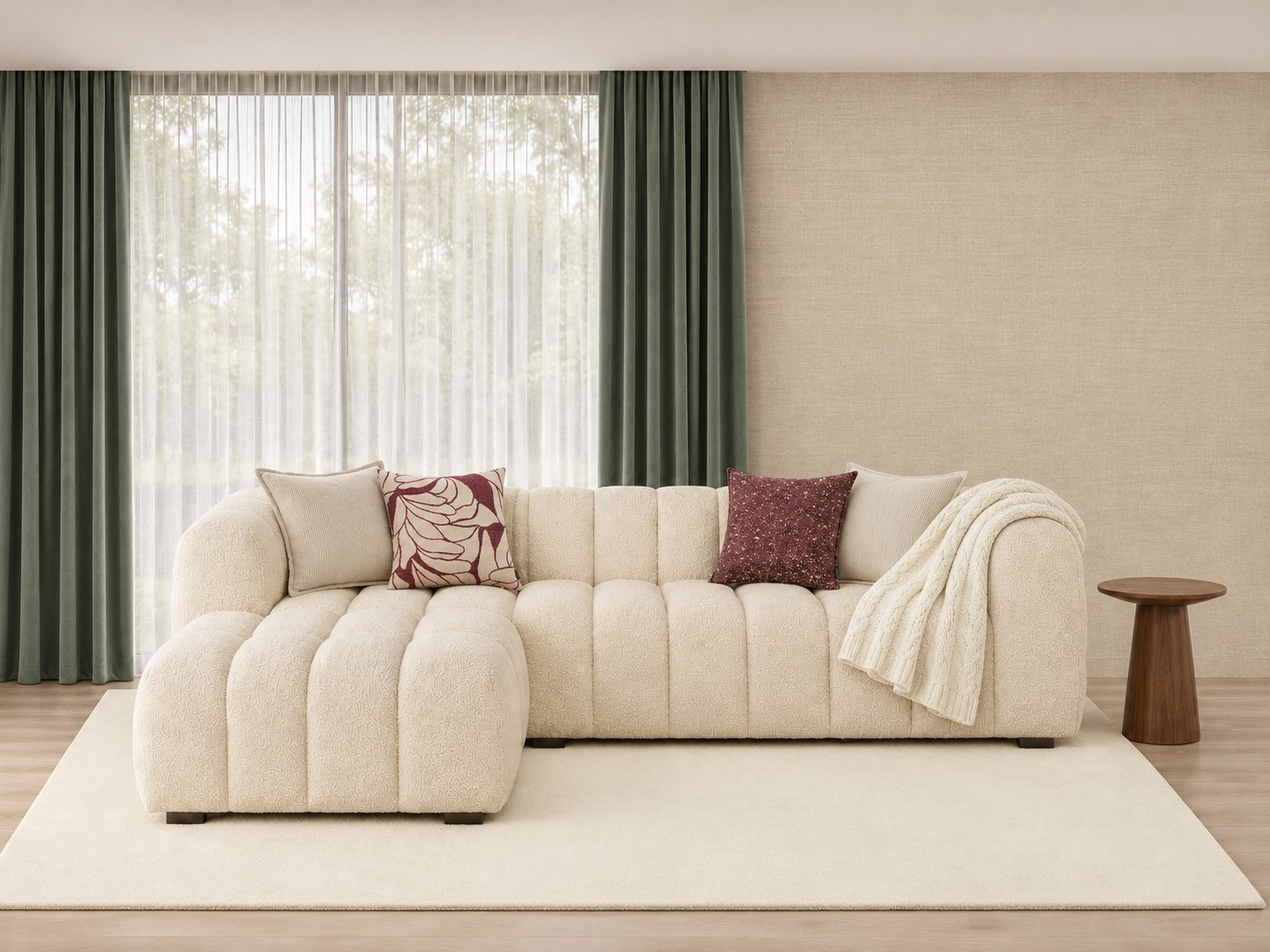
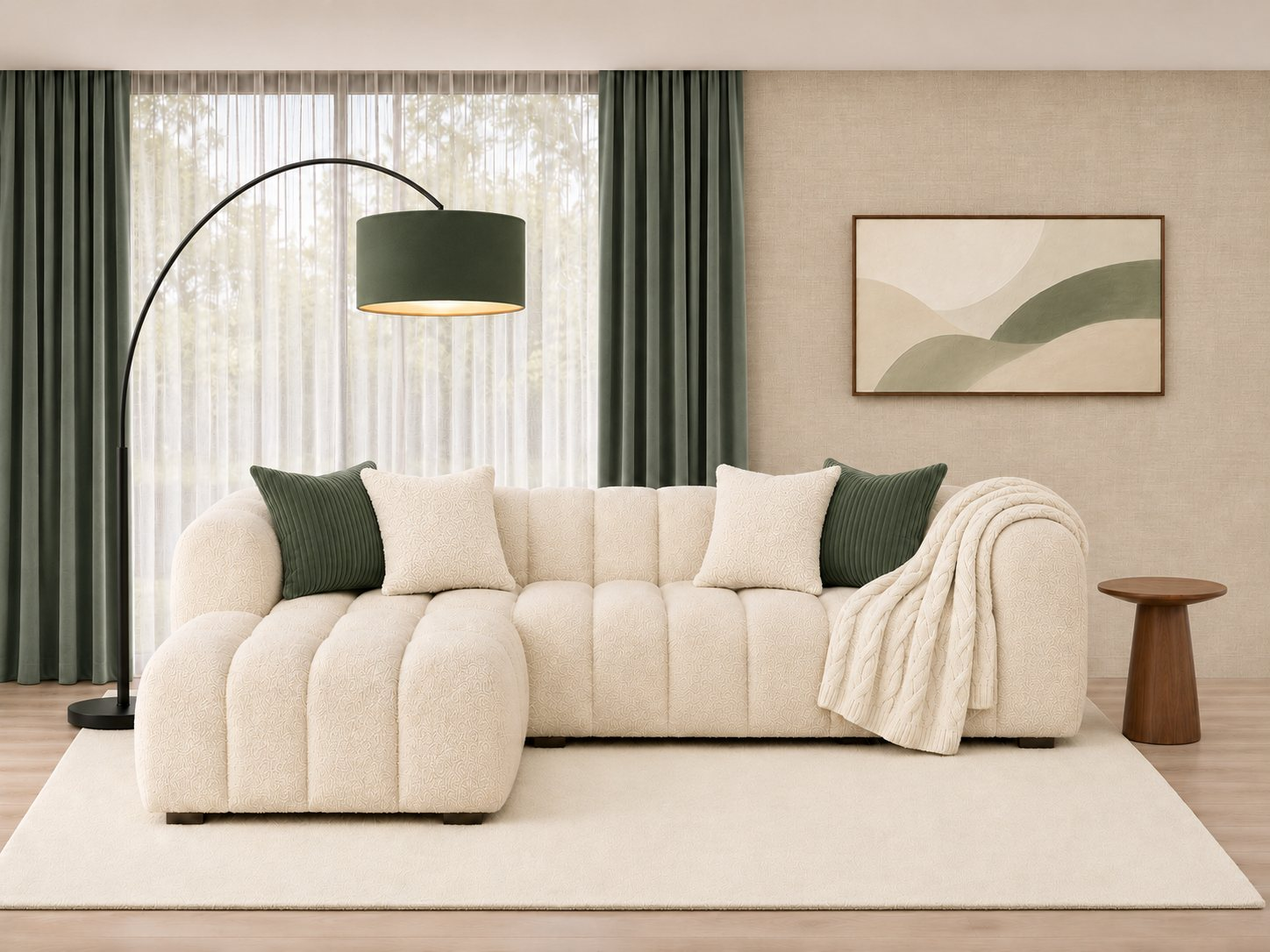
Гостиная: рендеры g03, без подушек и пледа в списке товаров
Claude-Session: https://claude.ai/code/session_01Jo9fSBbrUT3RnC7EnQNqqM

diff --git a/index.html b/index.html
@@ -256,7 +256,7 @@ function cbParse(id){var m=/^combo:(w\d)(c\d)(t\d)$/.exec(id||"");return m?{w:cb
 function comboName(id){var p=cbParse(id);return p&&p.w&&p.c&&p.t?p.w.full+" · "+p.c.full+" · "+p.t.full:id}
 window.comboName=null;
 /* Гостиная: 8 подобранных сочетаний. photo — рендер (пока нет: pending → показываем базовый кадр). */
-var LIVING=[{"id": "combo:V1", "maker": "Гостиная · V1", "name": "Осенний бархат", "photo": "img/liv/V1.jpg", "pending": false, "parts": [{"cat": "Диван", "name": "Maisons du Monde Lilo, угловой, экрю", "url": "https://www.maisonsdumonde.com/FR/fr/p/canape-nuage-d-angle-gauche-4-5-places-ecru-lilo-249793.htm", "img": "img/liv/t_sofa.jpg"}, {"cat": "Обои", "name": "Arte Textura Ignis — Lana, Macadamia 63505A", "url": "https://www.arte-international.com/es/colecciones/textura-ignis/lana-1/63505A", "img": "img/liv/w_LM.jpg"}, {"cat": "Шторы", "name": "Froca Cotonetto, Crème 08 (ткань)", "url": "https://artapisserie.fr/velours-grande-laize-cotonetto/28169-tissu-velours-cotonetto-creme-08-froca-grande-largeur.html", "img": "img/liv/c_08.jpg"}, {"cat": "Подушки", "name": "Maisons du Monde Frisa — буклé, экрю, 45×45", "url": "https://www.maisonsdumonde.com/FR/fr/p/coussin-a-bouclettes-ecrues-45x45-frisa-231611.htm", "img": "img/liv/p_CB.jpg", "qty": 2}, {"cat": "Подушки", "name": "Maisons du Monde (Magma) Shara — вельвет, олива, 45×45, 2 шт.", "url": "https://www.maisonsdumonde.com/FR/fr/p/lot-de-2-housses-de-coussin-velours-cotele-vert-olive-45x45-shara-M25198306.htm", "img": "img/liv/p_OL.jpg", "qty": 1}, {"cat": "Подушки", "name": "H&M — чехол, бархат из хлопка, бордо, прямоугольный, плиссированный кант", "url": "https://www2.hm.com/es_es/productpage.1361696003.html", "img": "img/liv/p_BV.jpg", "qty": 1}, {"cat": "Плед", "name": "Maisons du Monde Verbier — плед хлопок, бордо, «ёлочка», кисти, 130×170", "url": "https://www.maisonsdumonde.com/FR/fr/p/plaid-coton-bordeaux-130x170-verbier-M26071386.htm", "img": "img/liv/t_PB.jpg"}, {"cat": "Ковёр", "name": "Rols Zenit NX, Cream — шерсть, ворс 14 мм, по размеру ~3,5×4,5 м", "url": "https://www.rolscarpets.com/producto/zenit-nx-alfombra-cream/", "img": "img/liv/r_ZC.jpg"}]}, {"id": "combo:V2", "maker": "Гостиная · V2", "name": "Шалфейные шторы", "photo": "img/liv/V2.jpg", "pending": false, "parts": [{"cat": "Диван", "name": "Maisons du Monde Lilo, угловой, экрю", "url": "https://www.maisonsdumonde.com/FR/fr/p/canape-nuage-d-angle-gauche-4-5-places-ecru-lilo-249793.htm", "img": "img/liv/t_sofa.jpg"}, {"cat": "Обои", "name": "Arte Indienne — Bundi, Nutmeg 18371", "url": "https://www.arte-international.com/es/colecciones/indienne/bundi/18369", "img": "img/liv/w_BN.jpg"}, {"cat": "Шторы", "name": "Froca Cotonetto, Vert d'eau 28 (ткань)", "url": "https://artapisserie.fr/velours-grande-laize-cotonetto/28192-tissu-velours-cotonetto-vert-d-eau-28-froca-grande-largeur.html", "img": "img/liv/c_28.jpg"}, {"cat": "Подушки", "name": "Maisons du Monde Chenille — бархат, экрю, 45×45", "url": "https://www.maisonsdumonde.com/FR/fr/p/coussin-en-velours-ecru-45x45-chenille-235174.htm", "img": "img/liv/p_CV.jpg", "qty": 2}, {"cat": "Подушки", "name": "Maisons du Monde Nerina — чехол лён/хлопок, вышивка бордо, 40×40", "url": "https://www.maisonsdumonde.com/FR/fr/p/housse-de-coussin-en-coton-et-lin-beige-brode-motif-floral-bordeaux-40x40-nerina-252042.htm", "img": "img/liv/p_NE.jpg", "qty": 1}, {"cat": "Подушки", "name": "Maisons du Monde (Magma) Amara — жаккард, бордо, 45×45", "url": "https://www.maisonsdumonde.com/FR/fr/p/housse-de-coussin-jacquard-bordeaux-45x45-cm-amara-M26160224.htm", "img": "img/liv/p_AM.jpg", "qty": 1}, {"cat": "Плед", "name": "Maisons du Monde Ginette — вязаный плед, экрю, 210×160", "url": "https://www.maisonsdumonde.com/FR/fr/p/plaid-en-maille-ecru-210x160-ginette-231149.htm", "img": "img/liv/t_PC.jpg"}, {"cat": "Ковёр", "name": "Rols Zenit NX, Ivory — шерсть, ворс 14 мм, по размеру ~3,5×4,5 м", "url": "https://www.rolscarpets.com/producto/zenit-nx-alfombra-ivory/", "img": "img/liv/r_ZI.jpg"}]}, {"id": "combo:V3", "maker": "Гостиная · V3", "name": "Тёплый камень", "photo": "img/liv/V3.jpg", "pending": false, "parts": [{"cat": "Диван", "name": "Maisons du Monde Lilo, угловой, экрю", "url": "https://www.maisonsdumonde.com/FR/fr/p/canape-nuage-d-angle-gauche-4-5-places-ecru-lilo-249793.htm", "img": "img/liv/t_sofa.jpg"}, {"cat": "Обои", "name": "Arte Textura Ignis — Montagna, Beige 63522A", "url": "https://www.arte-international.com/es/colecciones/textura-ignis/montagna-1/63522A", "img": "img/liv/w_MB.jpg"}, {"cat": "Шторы", "name": "Froca Cotonetto, Tourterelle 13 (ткань)", "url": "https://artapisserie.fr/velours-grande-laize-cotonetto/28176-tissu-velours-cotonetto-tourterelle-13-froca-grande-largeur.html", "img": "img/liv/c_13.jpg"}, {"cat": "Подушки", "name": "Maisons du Monde (Magma) Shara — вельвет, олива, 45×45, 2 шт.", "url": "https://www.maisonsdumonde.com/FR/fr/p/lot-de-2-housses-de-coussin-velours-cotele-vert-olive-45x45-shara-M25198306.htm", "img": "img/liv/p_OL.jpg", "qty": 2}, {"cat": "Подушки", "name": "Maisons du Monde Frisa — буклé, экрю, 45×45", "url": "https://www.maisonsdumonde.com/FR/fr/p/coussin-a-bouclettes-ecrues-45x45-frisa-231611.htm", "img": "img/liv/p_CB.jpg", "qty": 2}, {"cat": "Плед", "name": "Maisons du Monde Verbier — плед хлопок, бордо, «ёлочка», кисти, 130×170", "url": "https://www.maisonsdumonde.com/FR/fr/p/plaid-coton-bordeaux-130x170-verbier-M26071386.htm", "img": "img/liv/t_PB.jpg"}, {"cat": "Ковёр", "name": "Rols Zenit NX, Ivory — шерсть, ворс 14 мм, по размеру ~3,5×4,5 м", "url": "https://www.rolscarpets.com/producto/zenit-nx-alfombra-ivory/", "img": "img/liv/r_ZI.jpg"}]}, {"id": "combo:V4", "maker": "Гостиная · V4", "name": "Глубокий зелёный", "photo": "img/liv/V4.jpg", "pending": false, "parts": [{"cat": "Диван", "name": "Maisons du Monde Lilo, угловой, экрю", "url": "https://www.maisonsdumonde.com/FR/fr/p/canape-nuage-d-angle-gauche-4-5-places-ecru-lilo-249793.htm", "img": "img/liv/t_sofa.jpg"}, {"cat": "Обои", "name": "Arte Textura Ignis — Lana, Tan 63502A", "url": "https://www.arte-international.com/es/colecciones/textura-ignis/lana-1/63502A", "img": "img/liv/w_LT.jpg"}, {"cat": "Шторы", "name": "Froca Cotonetto, Amande 30 (ткань)", "url": "https://artapisserie.fr/velours-grande-laize-cotonetto/28194-tissu-velours-cotonetto-amande-30-froca-grande-largeur.html", "img": "img/liv/c_30.jpg"}, {"cat": "Подушки", "name": "Maisons du Monde Gillian — шенилл фактурный, тёмно-зелёный, 40×40", "url": "https://www.maisonsdumonde.com/FR/fr/p/housse-de-coussin-chenille-texturee-vert-fonce-40x40-gillian-244027.htm", "img": "img/liv/p_GR.jpg", "qty": 1}, {"cat": "Подушки", "name": "Maisons du Monde Chenille — бархат, экрю, 45×45", "url": "https://www.maisonsdumonde.com/FR/fr/p/coussin-en-velours-ecru-45x45-chenille-235174.htm", "img": "img/liv/p_CV.jpg", "qty": 2}, {"cat": "Подушки", "name": "Maisons du Monde (Magma) Shara — вельвет, олива, 45×45, 2 шт.", "url": "https://www.maisonsdumonde.com/FR/fr/p/lot-de-2-housses-de-coussin-velours-cotele-vert-olive-45x45-shara-M25198306.htm", "img": "img/liv/p_OL.jpg", "qty": 1}, {"cat": "Плед", "name": "Maisons du Monde Verbier — плед хлопок, бордо, «ёлочка», кисти, 130×170", "url": "https://www.maisonsdumonde.com/FR/fr/p/plaid-coton-bordeaux-130x170-verbier-M26071386.htm", "img": "img/liv/t_PB.jpg"}, {"cat": "Ковёр", "name": "Rols Zenit NX, Cream — шерсть, ворс 14 мм, по размеру ~3,5×4,5 м", "url": "https://www.rolscarpets.com/producto/zenit-nx-alfombra-cream/", "img": "img/liv/r_ZC.jpg"}]}, {"id": "combo:V5", "maker": "Гостиная · V5", "name": "Карамель", "photo": "img/liv/V5.jpg", "pending": false, "parts": [{"cat": "Диван", "name": "Maisons du Monde Lilo, угловой, экрю", "url": "https://www.maisonsdumonde.com/FR/fr/p/canape-nuage-d-angle-gauche-4-5-places-ecru-lilo-249793.htm", "img": "img/liv/t_sofa.jpg"}, {"cat": "Обои", "name": "Arte Indienne — Bundi, Walnut 18366", "url": "https://www.arte-international.com/es/colecciones/indienne/bundi/18369", "img": "img/liv/w_BW.jpg"}, {"cat": "Шторы", "name": "Froca Cotonetto, Crème 08 (ткань)", "url": "https://artapisserie.fr/velours-grande-laize-cotonetto/28169-tissu-velours-cotonetto-creme-08-froca-grande-largeur.html", "img": "img/liv/c_08.jpg"}, {"cat": "Подушки", "name": "Maisons du Monde Nerina — чехол лён/хлопок, вышивка бордо, 40×40", "url": "https://www.maisonsdumonde.com/FR/fr/p/housse-de-coussin-en-coton-et-lin-beige-brode-motif-floral-bordeaux-40x40-nerina-252042.htm", "img": "img/liv/p_NE.jpg", "qty": 1}, {"cat": "Подушки", "name": "Maisons du Monde Frisa — буклé, экрю, 45×45", "url": "https://www.maisonsdumonde.com/FR/fr/p/coussin-a-bouclettes-ecrues-45x45-frisa-231611.htm", "img": "img/liv/p_CB.jpg", "qty": 2}, {"cat": "Подушки", "name": "H&M — чехол, мягкий бархат, тёмно-красный (вишня), плиссированный кант", "url": "https://www2.hm.com/es_es/productpage.1361695003.html", "img": "img/liv/p_BR.jpg", "qty": 1}, {"cat": "Плед", "name": "Maisons du Monde Megève — плед хлопок, олива/шалфей, кисти, 160×250", "url": "https://www.maisonsdumonde.com/FR/fr/p/plaid-coton-vert-olive-160x250-megeve-M24153349.htm", "img": "img/liv/t_PO.jpg"}, {"cat": "Ковёр", "name": "Rols Zenit NX, Ivory — шерсть, ворс 14 мм, по размеру ~3,5×4,5 м", "url": "https://www.rolscarpets.com/producto/zenit-nx-alfombra-ivory/", "img": "img/liv/r_ZI.jpg"}]}, {"id": "combo:V6", "maker": "Гостиная · V6", "name": "Светлый и свежий", "photo": "img/liv/V6.jpg", "pending": false, "parts": [{"cat": "Диван", "name": "Maisons du Monde Lilo, угловой, экрю", "url": "https://www.maisonsdumonde.com/FR/fr/p/canape-nuage-d-angle-gauche-4-5-places-ecru-lilo-249793.htm", "img": "img/liv/t_sofa.jpg"}, {"cat": "Обои", "name": "Arte Textura Ignis — Lana, Macadamia 63505A", "url": "https://www.arte-international.com/es/colecciones/textura-ignis/lana-1/63505A", "img": "img/liv/w_LM.jpg"}, {"cat": "Шторы", "name": "Froca Cotonetto, Mastic 09 (ткань)", "url": "https://artapisserie.fr/velours-grande-laize-cotonetto/28172-tissu-velours-cotonetto-mastic-09-froca-grande-largeur.html", "img": "img/liv/c_09.jpg"}, {"cat": "Подушки", "name": "Maisons du Monde Gillian — шенилл фактурный, тёмно-зелёный, 40×40", "url": "https://www.maisonsdumonde.com/FR/fr/p/housse-de-coussin-chenille-texturee-vert-fonce-40x40-gillian-244027.htm", "img": "img/liv/p_GR.jpg", "qty": 2}, {"cat": "Подушки", "name": "Maisons du Monde Chenille — бархат, экрю, 45×45", "url": "https://www.maisonsdumonde.com/FR/fr/p/coussin-en-velours-ecru-45x45-chenille-235174.htm", "img": "img/liv/p_CV.jpg", "qty": 2}, {"cat": "Плед", "name": "Maisons du Monde Megève — плед хлопок, олива/шалфей, кисти, 160×250", "url": "https://www.maisonsdumonde.com/FR/fr/p/plaid-coton-vert-olive-160x250-megeve-M24153349.htm", "img": "img/liv/t_PO.jpg"}, {"cat": "Ковёр", "name": "Rols Zenit NX, Desert — шерсть, ворс 14 мм, по размеру ~3,5×4,5 м", "url": "https://www.rolscarpets.com/producto/zenit-nx-alfombra-desert/", "img": "img/liv/r_ZD.jpg"}]}, {"id": "combo:V7", "maker": "Гостиная · V7", "name": "Без бордо", "photo": "img/liv/V7.jpg", "pending": false, "parts": [{"cat": "Диван", "name": "Maisons du Monde Lilo, угловой, экрю", "url": "https://www.maisonsdumonde.com/FR/fr/p/canape-nuage-d-angle-gauche-4-5-places-ecru-lilo-249793.htm", "img": "img/liv/t_sofa.jpg"}, {"cat": "Обои", "name": "Arte Textura Ignis — Montagna, Beige 63522A", "url": "https://www.arte-international.com/es/colecciones/textura-ignis/montagna-1/63522A", "img": "img/liv/w_MB.jpg"}, {"cat": "Шторы", "name": "Froca Cotonetto, Amande 30 (ткань)", "url": "https://artapisserie.fr/velours-grande-laize-cotonetto/28194-tissu-velours-cotonetto-amande-30-froca-grande-largeur.html", "img": "img/liv/c_30.jpg"}, {"cat": "Подушки", "name": "Maisons du Monde Gillian — шенилл фактурный, тёмно-зелёный, 40×40", "url": "https://www.maisonsdumonde.com/FR/fr/p/housse-de-coussin-chenille-texturee-vert-fonce-40x40-gillian-244027.htm", "img": "img/liv/p_GR.jpg", "qty": 2}, {"cat": "Подушки", "name": "Maisons du Monde Frisa — буклé, экрю, 45×45", "url": "https://www.maisonsdumonde.com/FR/fr/p/coussin-a-bouclettes-ecrues-45x45-frisa-231611.htm", "img": "img/liv/p_CB.jpg", "qty": 2}, {"cat": "Плед", "name": "Maisons du Monde Solid — вязаный плед, тёмно-зелёный, бахрома, 125×150", "url": "https://www.maisonsdumonde.com/FR/fr/p/plaid-vert-sauge-125x150-solid-M25092445.htm", "img": "img/liv/t_PS.jpg"}, {"cat": "Ковёр", "name": "Rols Zenit NX, Cream — шерсть, ворс 14 мм, по размеру ~3,5×4,5 м", "url": "https://www.rolscarpets.com/producto/zenit-nx-alfombra-cream/", "img": "img/liv/r_ZC.jpg"}]}, {"id": "combo:V8", "maker": "Гостиная · V8", "name": "Кедр", "photo": "img/liv/V8.jpg", "pending": false, "parts": [{"cat": "Диван", "name": "Maisons du Monde Lilo, угловой, экрю", "url": "https://www.maisonsdumonde.com/FR/fr/p/canape-nuage-d-angle-gauche-4-5-places-ecru-lilo-249793.htm", "img": "img/liv/t_sofa.jpg"}, {"cat": "Обои", "name": "Arte Textura Ignis — Lana, Tan 63502A", "url": "https://www.arte-international.com/es/colecciones/textura-ignis/lana-1/63502A", "img": "img/liv/w_LT.jpg"}, {"cat": "Шторы", "name": "Froca Cotonetto, Macadamia 12 (ткань)", "url": "https://artapisserie.fr/velours-grande-laize-cotonetto/28175-tissu-velours-cotonetto-macadamia-12-froca-grande-largeur.html", "img": "img/liv/c_12.jpg"}, {"cat": "Подушки", "name": "Maisons du Monde Chenille — бархат, экрю, 45×45", "url": "https://www.maisonsdumonde.com/FR/fr/p/coussin-en-velours-ecru-45x45-chenille-235174.htm", "img": "img/liv/p_CV.jpg", "qty": 2}, {"cat": "Подушки", "name": "H&M — чехол, бархат из хлопка, бордо, прямоугольный, плиссированный кант", "url": "https://www2.hm.com/es_es/productpage.1361696003.html", "img": "img/liv/p_BV.jpg", "qty": 1}, {"cat": "Подушки", "name": "Zara Home — чехол, бархат, Camel", "url": "https://www.zarahome.com/es/funda-cojin-terciopelo-l45162008?colorId=704", "img": "img/liv/p_CA.jpg", "qty": 1}, {"cat": "Плед", "name": "Maisons du Monde Ginette — вязаный плед, экрю, 210×160", "url": "https://www.maisonsdumonde.com/FR/fr/p/plaid-en-maille-ecru-210x160-ginette-231149.htm", "img": "img/liv/t_PC.jpg"}, {"cat": "Ковёр", "name": "Rols Zenit NX, Greige — шерсть, ворс 14 мм, по размеру ~3,5×4,5 м", "url": "https://www.rolscarpets.com/producto/zenit-nx-alfombra-greige/", "img": "img/liv/r_ZG.jpg"}]}];
+var LIVING=[{"id": "combo:V1", "maker": "Гостиная · V1", "name": "Осенний бархат", "photo": "img/liv/V1.jpg", "pending": false, "parts": [{"cat": "Диван", "name": "Maisons du Monde Lilo, угловой, экрю", "url": "https://www.maisonsdumonde.com/FR/fr/p/canape-nuage-d-angle-gauche-4-5-places-ecru-lilo-249793.htm", "img": "img/liv/t_sofa.jpg"}, {"cat": "Обои", "name": "Arte Textura Ignis — Lana, Macadamia 63505A", "url": "https://www.arte-international.com/es/colecciones/textura-ignis/lana-1/63505A", "img": "img/liv/w_LM.jpg"}, {"cat": "Шторы", "name": "Froca Cotonetto, Crème 08 (ткань)", "url": "https://artapisserie.fr/velours-grande-laize-cotonetto/28169-tissu-velours-cotonetto-creme-08-froca-grande-largeur.html", "img": "img/liv/c_08.jpg"}, {"cat": "Ковёр", "name": "Rols Zenit NX, Cream — шерсть, ворс 14 мм, по размеру ~3,5×4,5 м", "url": "https://www.rolscarpets.com/producto/zenit-nx-alfombra-cream/", "img": "img/liv/r_ZC.jpg"}]}, {"id": "combo:V2", "maker": "Гостиная · V2", "name": "Шалфейные шторы", "photo": "img/liv/V2.jpg", "pending": false, "parts": [{"cat": "Диван", "name": "Maisons du Monde Lilo, угловой, экрю", "url": "https://www.maisonsdumonde.com/FR/fr/p/canape-nuage-d-angle-gauche-4-5-places-ecru-lilo-249793.htm", "img": "img/liv/t_sofa.jpg"}, {"cat": "Обои", "name": "Arte Indienne — Bundi, Nutmeg 18371", "url": "https://www.arte-international.com/es/colecciones/indienne/bundi/18369", "img": "img/liv/w_BN.jpg"}, {"cat": "Шторы", "name": "Froca Cotonetto, Vert d'eau 28 (ткань)", "url": "https://artapisserie.fr/velours-grande-laize-cotonetto/28192-tissu-velours-cotonetto-vert-d-eau-28-froca-grande-largeur.html", "img": "img/liv/c_28.jpg"}, {"cat": "Ковёр", "name": "Rols Zenit NX, Ivory — шерсть, ворс 14 мм, по размеру ~3,5×4,5 м", "url": "https://www.rolscarpets.com/producto/zenit-nx-alfombra-ivory/", "img": "img/liv/r_ZI.jpg"}]}, {"id": "combo:V3", "maker": "Гостиная · V3", "name": "Тёплый камень", "photo": "img/liv/V3.jpg", "pending": false, "parts": [{"cat": "Диван", "name": "Maisons du Monde Lilo, угловой, экрю", "url": "https://www.maisonsdumonde.com/FR/fr/p/canape-nuage-d-angle-gauche-4-5-places-ecru-lilo-249793.htm", "img": "img/liv/t_sofa.jpg"}, {"cat": "Обои", "name": "Arte Textura Ignis — Montagna, Beige 63522A", "url": "https://www.arte-international.com/es/colecciones/textura-ignis/montagna-1/63522A", "img": "img/liv/w_MB.jpg"}, {"cat": "Шторы", "name": "Froca Cotonetto, Tourterelle 13 (ткань)", "url": "https://artapisserie.fr/velours-grande-laize-cotonetto/28176-tissu-velours-cotonetto-tourterelle-13-froca-grande-largeur.html", "img": "img/liv/c_13.jpg"}, {"cat": "Ковёр", "name": "Rols Zenit NX, Ivory — шерсть, ворс 14 мм, по размеру ~3,5×4,5 м", "url": "https://www.rolscarpets.com/producto/zenit-nx-alfombra-ivory/", "img": "img/liv/r_ZI.jpg"}]}, {"id": "combo:V4", "maker": "Гостиная · V4", "name": "Глубокий зелёный", "photo": "img/liv/V4.jpg", "pending": false, "parts": [{"cat": "Диван", "name": "Maisons du Monde Lilo, угловой, экрю", "url": "https://www.maisonsdumonde.com/FR/fr/p/canape-nuage-d-angle-gauche-4-5-places-ecru-lilo-249793.htm", "img": "img/liv/t_sofa.jpg"}, {"cat": "Обои", "name": "Arte Textura Ignis — Lana, Tan 63502A", "url": "https://www.arte-international.com/es/colecciones/textura-ignis/lana-1/63502A", "img": "img/liv/w_LT.jpg"}, {"cat": "Шторы", "name": "Froca Cotonetto, Amande 30 (ткань)", "url": "https://artapisserie.fr/velours-grande-laize-cotonetto/28194-tissu-velours-cotonetto-amande-30-froca-grande-largeur.html", "img": "img/liv/c_30.jpg"}, {"cat": "Ковёр", "name": "Rols Zenit NX, Cream — шерсть, ворс 14 мм, по размеру ~3,5×4,5 м", "url": "https://www.rolscarpets.com/producto/zenit-nx-alfombra-cream/", "img": "img/liv/r_ZC.jpg"}]}, {"id": "combo:V5", "maker": "Гостиная · V5", "name": "Карамель", "photo": "img/liv/V5.jpg", "pending": false, "parts": [{"cat": "Диван", "name": "Maisons du Monde Lilo, угловой, экрю", "url": "https://www.maisonsdumonde.com/FR/fr/p/canape-nuage-d-angle-gauche-4-5-places-ecru-lilo-249793.htm", "img": "img/liv/t_sofa.jpg"}, {"cat": "Обои", "name": "Arte Indienne — Bundi, Walnut 18366", "url": "https://www.arte-international.com/es/colecciones/indienne/bundi/18369", "img": "img/liv/w_BW.jpg"}, {"cat": "Шторы", "name": "Froca Cotonetto, Crème 08 (ткань)", "url": "https://artapisserie.fr/velours-grande-laize-cotonetto/28169-tissu-velours-cotonetto-creme-08-froca-grande-largeur.html", "img": "img/liv/c_08.jpg"}, {"cat": "Ковёр", "name": "Rols Zenit NX, Ivory — шерсть, ворс 14 мм, по размеру ~3,5×4,5 м", "url": "https://www.rolscarpets.com/producto/zenit-nx-alfombra-ivory/", "img": "img/liv/r_ZI.jpg"}]}, {"id": "combo:V6", "maker": "Гостиная · V6", "name": "Светлый и свежий", "photo": "img/liv/V6.jpg", "pending": false, "parts": [{"cat": "Диван", "name": "Maisons du Monde Lilo, угловой, экрю", "url": "https://www.maisonsdumonde.com/FR/fr/p/canape-nuage-d-angle-gauche-4-5-places-ecru-lilo-249793.htm", "img": "img/liv/t_sofa.jpg"}, {"cat": "Обои", "name": "Arte Textura Ignis — Lana, Macadamia 63505A", "url": "https://www.arte-international.com/es/colecciones/textura-ignis/lana-1/63505A", "img": "img/liv/w_LM.jpg"}, {"cat": "Шторы", "name": "Froca Cotonetto, Mastic 09 (ткань)", "url": "https://artapisserie.fr/velours-grande-laize-cotonetto/28172-tissu-velours-cotonetto-mastic-09-froca-grande-largeur.html", "img": "img/liv/c_09.jpg"}, {"cat": "Ковёр", "name": "Rols Zenit NX, Desert — шерсть, ворс 14 мм, по размеру ~3,5×4,5 м", "url": "https://www.rolscarpets.com/producto/zenit-nx-alfombra-desert/", "img": "img/liv/r_ZD.jpg"}]}, {"id": "combo:V7", "maker": "Гостиная · V7", "name": "Без бордо", "photo": "img/liv/V7.jpg", "pending": false, "parts": [{"cat": "Диван", "name": "Maisons du Monde Lilo, угловой, экрю", "url": "https://www.maisonsdumonde.com/FR/fr/p/canape-nuage-d-angle-gauche-4-5-places-ecru-lilo-249793.htm", "img": "img/liv/t_sofa.jpg"}, {"cat": "Обои", "name": "Arte Textura Ignis — Montagna, Beige 63522A", "url": "https://www.arte-international.com/es/colecciones/textura-ignis/montagna-1/63522A", "img": "img/liv/w_MB.jpg"}, {"cat": "Шторы", "name": "Froca Cotonetto, Amande 30 (ткань)", "url": "https://artapisserie.fr/velours-grande-laize-cotonetto/28194-tissu-velours-cotonetto-amande-30-froca-grande-largeur.html", "img": "img/liv/c_30.jpg"}, {"cat": "Ковёр", "name": "Rols Zenit NX, Cream — шерсть, ворс 14 мм, по размеру ~3,5×4,5 м", "url": "https://www.rolscarpets.com/producto/zenit-nx-alfombra-cream/", "img": "img/liv/r_ZC.jpg"}]}, {"id": "combo:V8", "maker": "Гостиная · V8", "name": "Кедр", "photo": "img/liv/V8.jpg", "pending": false, "parts": [{"cat": "Диван", "name": "Maisons du Monde Lilo, угловой, экрю", "url": "https://www.maisonsdumonde.com/FR/fr/p/canape-nuage-d-angle-gauche-4-5-places-ecru-lilo-249793.htm", "img": "img/liv/t_sofa.jpg"}, {"cat": "Обои", "name": "Arte Textura Ignis — Lana, Tan 63502A", "url": "https://www.arte-international.com/es/colecciones/textura-ignis/lana-1/63502A", "img": "img/liv/w_LT.jpg"}, {"cat": "Шторы", "name": "Froca Cotonetto, Macadamia 12 (ткань)", "url": "https://artapisserie.fr/velours-grande-laize-cotonetto/28175-tissu-velours-cotonetto-macadamia-12-froca-grande-largeur.html", "img": "img/liv/c_12.jpg"}, {"cat": "Ковёр", "name": "Rols Zenit NX, Greige — шерсть, ворс 14 мм, по размеру ~3,5×4,5 м", "url": "https://www.rolscarpets.com/producto/zenit-nx-alfombra-greige/", "img": "img/liv/r_ZG.jpg"}]}];
 var CATS=[
   {key:"shelf",tab:"Стеллаж",h1:"Стеллаж за роялем",sub:"Ниша 1630 × 2500 мм, глубина до 650 мм",items:SHELF},
   {key:"combo",tab:"Гостиная",h1:"Гостиная: сочетания",sub:"Обои, шторы, текстиль и ковёр",items:LIVING}
